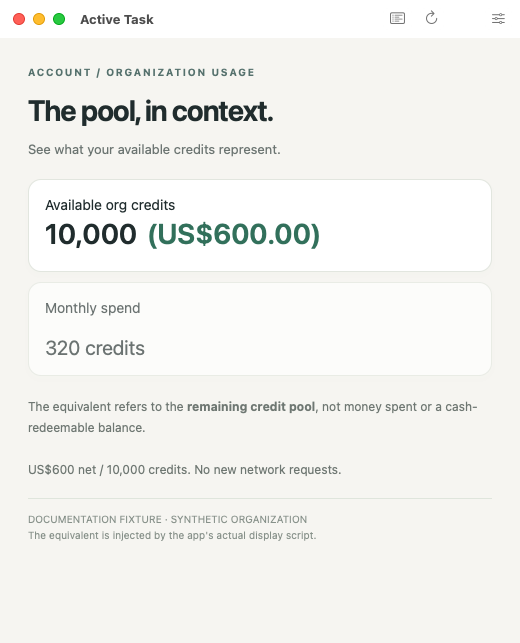
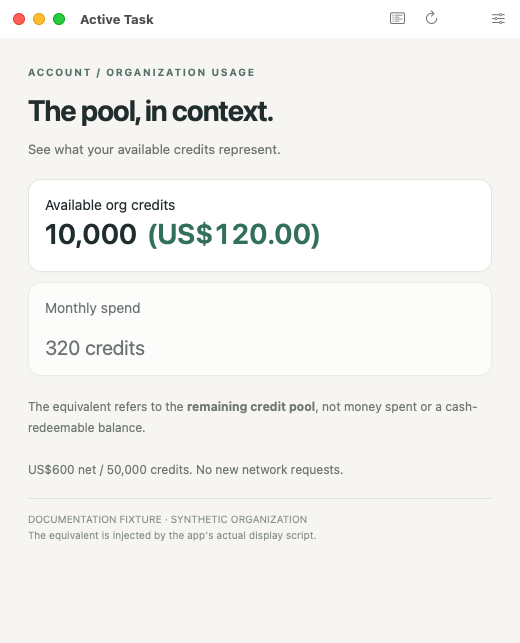
Finalize 2.0.0 screenshots, OS compatibility and updater recovery tests

Changed region(s): [[0.2154, 0.7154, 0.6462, 0.7465], [0.4, 0.3421, 0.4923, 0.3733]]

diff --git a/tests/UpdaterTests.swift b/tests/UpdaterTests.swift
@@ -8,8 +8,14 @@ struct UpdaterTests {
         checks += 1
         guard try value() else { throw UpdateFailure("TEST FAILED: \(label)") }
     }
-    static func rejects(_ label: String, _ body: () throws -> Void) throws {
-        do { try body() } catch { checks += 1; return }
+    static func rejects(_ label: String, containing expected: String? = nil, _ body: () throws -> Void) throws {
+        do { try body() } catch {
+            if let expected = expected, !error.localizedDescription.contains(expected) {
+                throw UpdateFailure("TEST FAILED: \(label) rejected for the wrong reason: \(error)")
+            }
+            checks += 1
+            return
+        }
         throw UpdateFailure("TEST FAILED: accepted \(label)")
     }
     static func metadata(tag: String = "v2.0.0", digest: String = "sha256:" + String(repeating: "a", count: 64),
@@ -59,6 +65,16 @@ struct UpdaterTests {
             value["prerelease"] = true
             _ = try UpdateCore.release(from: JSONSerialization.data(withJSONObject: value), currentVersion: "1.1.0")
         }
+        try rejects("draft") {
+            var value = try JSONSerialization.jsonObject(with: valid) as! [String: Any]
+            value["draft"] = true
+            _ = try UpdateCore.release(from: JSONSerialization.data(withJSONObject: value), currentVersion: "1.1.0")
+        }
+        for tag in ["2.0.0", "v2.0.0-beta", "v02.0.0"] {
+            try rejects("unsupported release tag") {
+                _ = try UpdateCore.release(from: metadata(tag: tag), currentVersion: "1.1.0")
+            }
+        }
         try UpdateCore.validateEntryNames(["Active Task.app/", "Active Task.app/Contents/Info.plist", "__MACOSX/._Active Task.app"])
         checks += 1
         for entry in ["/tmp/escape", "../escape", "Active Task.app/../escape", "Other.app/Contents/a",
@@ -66,6 +82,12 @@ struct UpdaterTests {
             try rejects("unsafe archive path") { try UpdateCore.validateEntryNames([entry]) }
         }
         try check(!UpdateCore.universalArchitectures(Data("not a Mach-O".utf8)), "bad executable")
+        let macOS = OperatingSystemVersion(majorVersion: 15, minorVersion: 1, patchVersion: 0)
+        try check(UpdateCore.supportsMinimumOS("13.0", current: macOS), "older supported OS")
+        try check(UpdateCore.supportsMinimumOS("15.1.0", current: macOS), "same supported OS")
+        try check(!UpdateCore.supportsMinimumOS("15.1.1", current: macOS), "newer OS refused")
+        try check(!UpdateCore.supportsMinimumOS("99.0", current: macOS), "future OS refused")
+        try check(!UpdateCore.supportsMinimumOS("invalid", current: macOS), "invalid OS refused")
         try nativeInstallerIntegration()
         print("\(checks) updater checks passed, including real native replacement/reopen and injected launch-failure rollback.")
     }
@@ -152,6 +174,23 @@ struct UpdaterTests {
         try check(try UpdateCore.readVersion(installed) == "2.0.0", "old app restored after launch failure")
         try check(manager.fileExists(atPath: rollback.stage.appendingPathComponent("Failed Active Task.app").path), "failed app retained")
         try check(!manager.fileExists(atPath: installed.deletingLastPathComponent().appendingPathComponent(".active-task-update-lock").path), "lock released")
+        let stale = try UpdateCore.prepare(archive: archive, version: "2.0.1", target: installed, helperSource: helper)
+        try rejects("target changed before helper preflight", containing: "Update failed; restoring the previous app.") {
+            try UpdateCore.run("/bin/bash", [stale.helper.path, "999999", installed.path, stale.candidate.path,
+                                            stale.stage.path, "1.1.0", stale.newVersion, "active-task-update-v1"])
+        }
+        try check(try UpdateCore.readVersion(installed) == "2.0.0", "late preflight leaves installed version intact")
+        try check(!manager.fileExists(atPath: stale.stage.appendingPathComponent("Previous Active Task.app").path),
+                  "late preflight does not move installed app")
+        let resource = candidate.appendingPathComponent("Contents/Resources")
+        try manager.createDirectory(at: resource, withIntermediateDirectories: true)
+        try manager.createSymbolicLink(at: resource.appendingPathComponent("unsafe-link"), withDestinationURL: marker)
+        let symlinkArchive = root.appendingPathComponent("symlink.zip")
+        try UpdateCore.run("/usr/bin/ditto", ["-c", "-k", "--keepParent", candidate.path, symlinkArchive.path])
+        try rejects("actual ZIP symlink", containing: "Symbolic links in the archive") {
+            _ = try UpdateCore.prepare(archive: symlinkArchive, version: "2.0.1", target: installed, helperSource: helper)
+        }
+        try check(try UpdateCore.readVersion(installed) == "2.0.0", "symlink archive leaves target intact")
     }
 
     static func liveProbe() async throws {

diff --git a/Sources/UpdateCore.swift b/Sources/UpdateCore.swift
@@ -160,11 +160,30 @@ enum UpdateCore {
         return cpus.contains(0x0100000c) && cpus.contains(0x01000007)
     }
 
+    static func supportsMinimumOS(_ string: String, current: OperatingSystemVersion = ProcessInfo.processInfo.operatingSystemVersion) -> Bool {
+        let parts = string.split(separator: ".", omittingEmptySubsequences: false)
+        guard (2...3).contains(parts.count) else { return false }
+        var numbers: [Int] = []
+        for part in parts {
+            guard !part.isEmpty, part.allSatisfy({ $0.isASCII && $0.isNumber }),
+                  let number = Int(part) else { return false }
+            numbers.append(number)
+        }
+        while numbers.count < 3 { numbers.append(0) }
+        let available = [current.majorVersion, current.minorVersion, current.patchVersion]
+        return !available.lexicographicallyPrecedes(numbers)
+    }
+
     static func validateBundle(_ app: URL, version: String) throws {
         let manager = FileManager.default
         guard try app.resourceValues(forKeys: [.isSymbolicLinkKey]).isSymbolicLink != true,
               try readVersion(app) == version else {
             throw UpdateFailure("Unexpected update version or bundle path.")
+        }
+        let plistData = try Data(contentsOf: app.appendingPathComponent("Contents/Info.plist"))
+        guard let plist = try PropertyListSerialization.propertyList(from: plistData, format: nil) as? [String: Any],
+              let minimumOS = plist["LSMinimumSystemVersion"] as? String, supportsMinimumOS(minimumOS) else {
+            throw UpdateFailure("This release requires an unsupported macOS version.")
         }
         guard let enumerator = manager.enumerator(at: app, includingPropertiesForKeys: [.isSymbolicLinkKey]) else {
             throw UpdateFailure("Cannot inspect update bundle.")

diff --git a/Sources/App.swift b/Sources/App.swift
@@ -380,7 +380,10 @@ final class AppDelegate: NSObject, NSApplicationDelegate, NSWindowDelegate,
         updateStatusLabel?.stringValue = "Active Task \(version). \(updater.statusText)"
     }
 
-    @objc private func checkForUpdates() { updater.check(manual: true) }
+    @objc private func checkForUpdates() {
+        NSApp.activate(ignoringOtherApps: true)
+        updater.check(manual: true)
+    }
 
     @objc private func preferenceChanged(_ sender: NSControl) {
         switch sender.tag {

diff --git a/CONTRIBUTING.md b/CONTRIBUTING.md
@@ -12,6 +12,9 @@ npm test
 mkdir -p build
 xcrun swiftc Sources/Behavior.swift tests/WindowBehaviorTests.swift -o build/behavior-tests
 build/behavior-tests
+xcrun swiftc -swift-version 5 Sources/UpdateCore.swift Sources/UpdateHTTP.swift \
+  tests/UpdaterTests.swift -o build/updater-tests
+build/updater-tests
 bash scripts/build.sh
 ```
 
@@ -25,6 +28,7 @@ Run the real app to check keyboard behavior, settings, window focus, and frame r
 - **Keep estimates honest:** Read only explicitly labelled credits, preserve original values, disclose the rate, and distinguish session spending from available pool equivalents.
 - **Protect private data:** Use synthetic examples. Never commit browser state, passwords, API keys, private task titles, or signed-in screenshots without permission.
 - **Synchronize releases:** Keep `Info.plist`, changelog, release notes, and installation notes aligned. Tagging `vX.Y.Z` must match the bundle version.
+- **Keep updates unprivileged:** Preserve explicit installation approval, trusted hosts, integrity/identity/OS checks, path and symlink rejection, backup retention, and rollback. Do not bypass Gatekeeper or introduce production test hooks.
 - **Disclose AI assistance honestly:** AI-assisted contributions are welcome; contributors remain responsible for understanding and checking their changes.
 
 Contributions are licensed under this project's [MIT license](LICENSE). See [screenshot instructions](docs/SCREENSHOTS.md) for reproducible documentation images.

diff --git a/docs/VALIDATION.md b/docs/VALIDATION.md
@@ -15,7 +15,7 @@ The [GitHub Actions workflow](https://github.com/paulfxyz/perplexity-active-task
 - **Bundle checks:** Plist validation, generated icon presence, ad-hoc signature verification, and absence of the screenshot fixture from the shipping app.
 - **Launch smoke test:** Starts the native executable and verifies it remains alive for twelve seconds. This checks liveness, not UI correctness or login.
 - **Documentation capture:** A separately compiled native build renders synthetic tasks and captures its own overview, settings panel, session-cost row, and organization-cost suffix. The actual WebKit-injected values must equal `US$2.63` and `(US$120.00)` before capture succeeds.
-- **Native updater:** Semantic versions, URL/metadata/size/checksum policy, archive-name rejection, real signed universal fixture replacement/reopen, backup retention, and fault-injected immediate-launch rollback.
+- **Native updater:** Semantic versions, URL/metadata/size/checksum/OS policy, archive-name and actual ZIP-symlink rejection, real signed universal fixture replacement/reopen, late-preflight protection, backup retention, and fault-injected immediate-launch rollback.
 - **Live update probe:** Native public GitHub feed request, allowlisted redirects, actual ZIP size/hash verification, with no installation.
 - **Release integrity:** The tag must match the bundle version, and the ZIP must match its SHA-256 checksum before publication.
 

diff --git a/docs/UPDATES.md b/docs/UPDATES.md
@@ -18,7 +18,7 @@ The updater:
 - **Controls networking:** Uses an ephemeral, cookieless client without stored URL credentials or cache. Every redirect must remain HTTPS on an explicit GitHub host.
 - **Verifies the download:** Compares the actual byte count and SHA-256 before extraction.
 - **Checks the archive:** Rejects traversal, unexpected roots, symlinks, and unsupported layouts before unpacking.
-- **Checks the app:** Requires `com.paulfleury.activetask`, the advertised version, an executable named `ActiveTask`, Apple silicon and Intel architectures, and a valid code-signature integrity check.
+- **Checks the app:** Requires `com.paulfleury.activetask`, the advertised version, a compatible minimum macOS version, an executable named `ActiveTask`, Apple silicon and Intel architectures, and a valid code-signature integrity check.
 - **Stages locally:** Creates a mode-0700 hidden sibling folder, copies the current app's helper there, and does not alter the installed app while it is running.
 - **Confirms the swap:** Waits for the old PID to exit, rechecks bundle identity/version and signature, obtains a local lock, moves the old app into backup, moves the candidate into place, and runs `open` on it.
 

diff --git a/README.md b/README.md
@@ -154,6 +154,9 @@ npm test
 mkdir -p build
 xcrun swiftc Sources/Behavior.swift tests/WindowBehaviorTests.swift -o build/behavior-tests
 build/behavior-tests
+xcrun swiftc -swift-version 5 Sources/UpdateCore.swift Sources/UpdateHTTP.swift \
+  tests/UpdaterTests.swift -o build/updater-tests
+build/updater-tests
 ```
 
 The build creates a universal executable, generates the original icon using AppKit, ad-hoc signs and verifies the bundle, and produces a ZIP plus SHA-256 checksum. Screenshot fixtures are compiled into a separate documentation build only and are excluded from release bundles.
